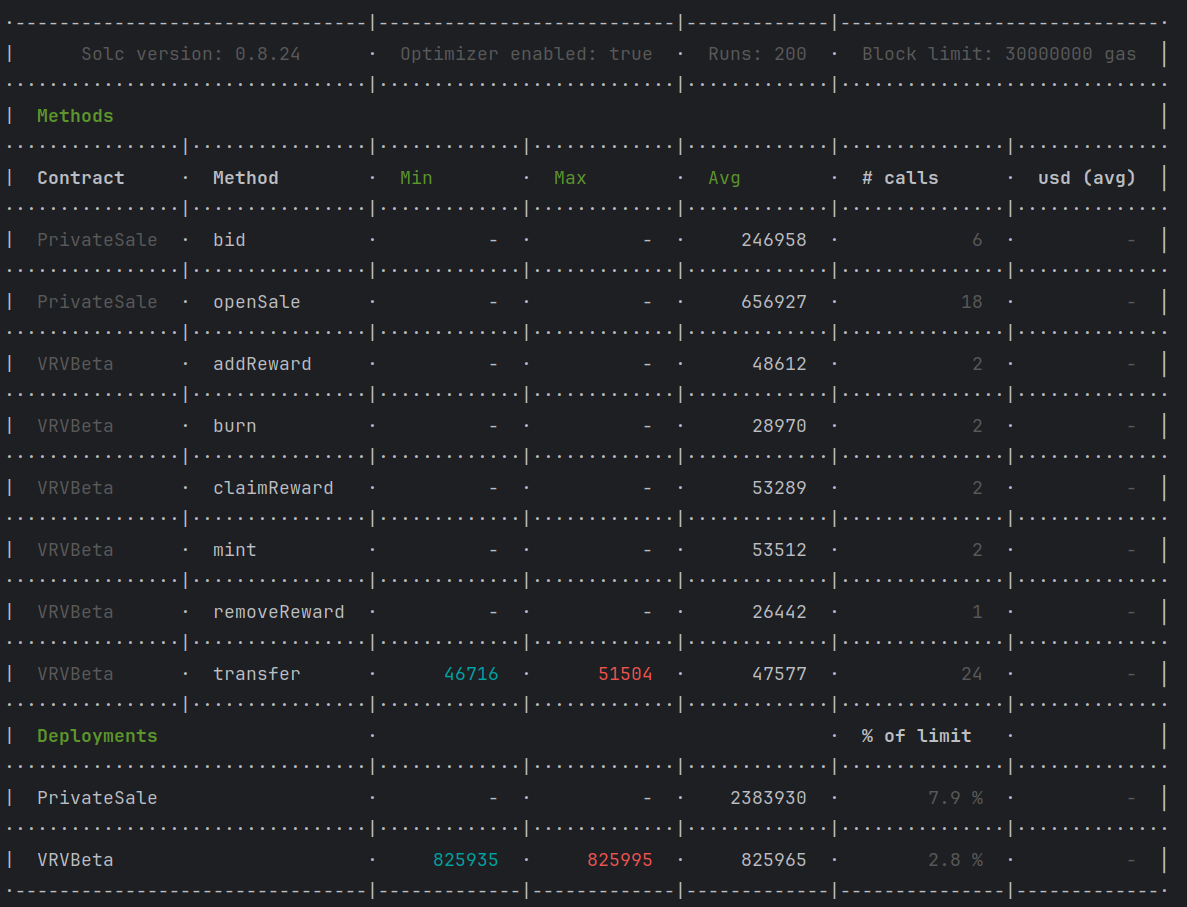
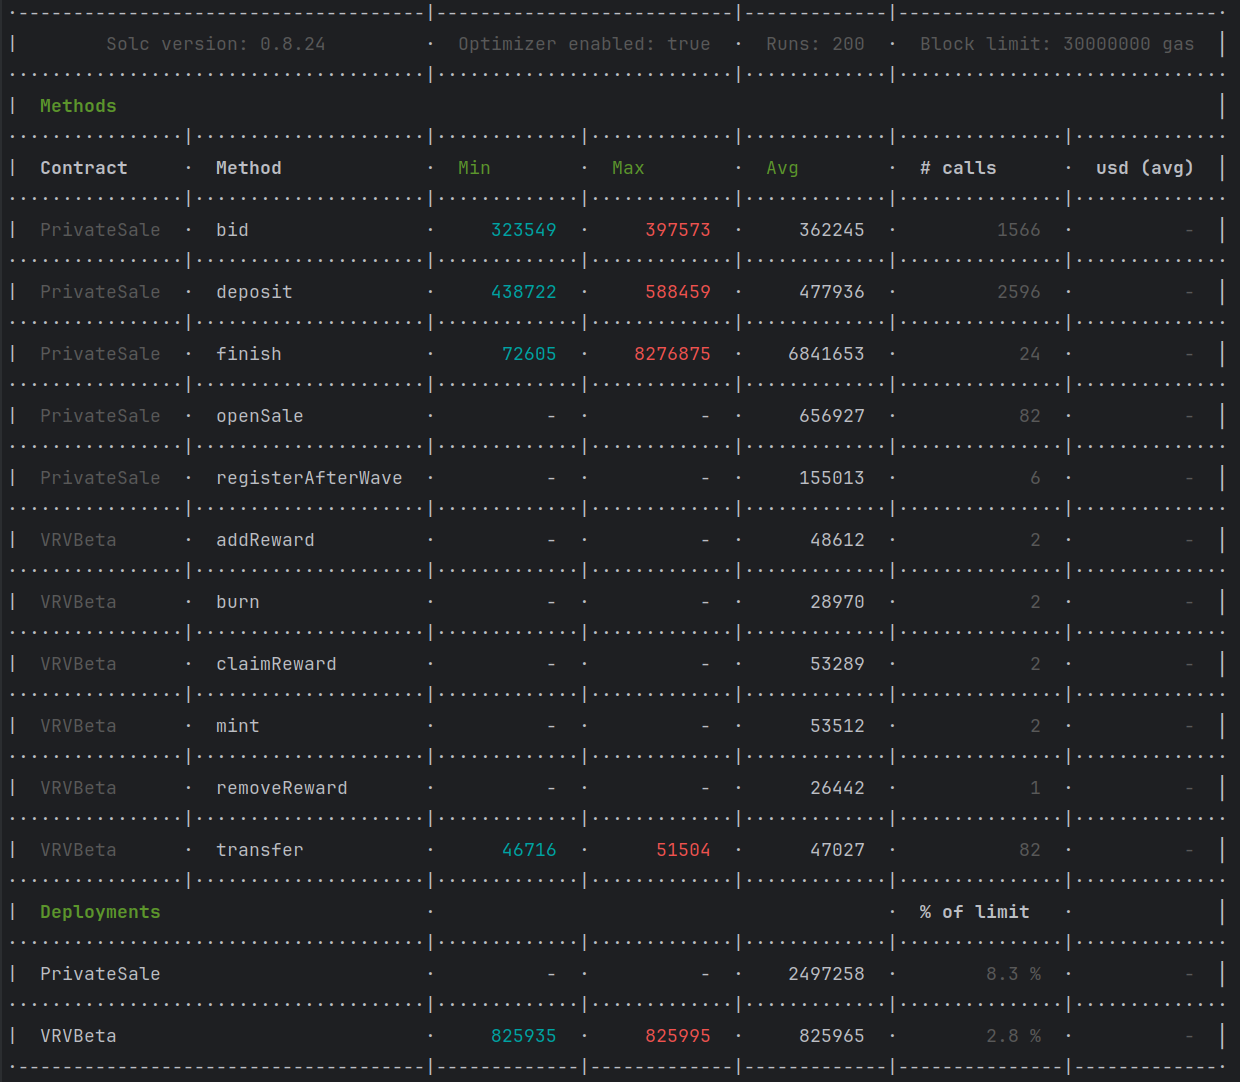
Private Sell готов

diff --git a/hardhat.config.ts b/hardhat.config.ts
@@ -43,7 +43,6 @@ const config: HardhatUserConfig = {
     timeout: 300000
   },
   gasReporter: {
-    enabled: false,
     currency: "USD"
   }
 };

diff --git a/.solcover.js b/.solcover.js
@@ -1,0 +1,2 @@
+module.exports = {
+};

diff --git a/README.md b/README.md
@@ -74,151 +74,4 @@ npx hardhat ignition deploy ./ignition/modules/OnlyVervCoin.ts --network localho
 - Добавляем метод, который завершает продажи, возвращает всем все либо переводит все бабки на баланс
   кошелька который указан в методе
 
-
-Как работать с контрактом
-
-Пред началом продажи необходимо на баланс контракта Private Sale перечислить VRV токены в необходимом
-количестве. `При деплое через команду это происходит автоматически`
-
-```
-vrvToken.transfer(privateSaleContractAddress, 7_500_000_000_000_000_000_000_000n);
-```
-
-Пред началом продажи необходимо сконфигурировать контракт тем самым разрешив депозиты. `При деплое через команду это происходит автоматически`
-
-```
-// privateSaleContract.openSale(softCap: bigint, hardCap: bigint, waveLimit: bigint);
-privateSaleContract.openSale(15_000_000_000_000_000_000n, 40_000_000_000_000_000_000n, 750_000_000_000_000_000_000_000n);
-```
-
-
-Чтобы совершить депозит, необходимо на бекенде подготовить данные которые затем можно добавить в транзакцию
-пользователя и вызвать отправку этой транзакции.
-
-```ts
-import { ethers } from "hardhat";
-
-type SolidityTypesAsString = "address"
-        | "bytes" | "bytes1" | "bytes2" | "bytes3" | "bytes4" | "bytes5" | "bytes6" | "bytes7" | "bytes8" | "bytes9"
-        | "bytes10" | "bytes11" | "bytes12" | "bytes13" | "bytes14" | "bytes15" | "bytes16" | "bytes17" | "bytes18" | "bytes19"
-        | "bytes20" | "bytes21" | "bytes22" | "bytes23" | "bytes24" | "bytes25" | "bytes26" | "bytes27" | "bytes28" | "bytes29"
-        | "bytes30" | "bytes31" | "bytes32"
-        | "string"
-        | "uint8"
-        | "uint"
-        | "uint256"
-
-type EIP712TypeDefinition = {
-  [key: string]: {
-    name: string
-    type: SolidityTypesAsString
-  }[]
-}
-
-type EIP712Domain = {
-  name: string
-  version: string
-  verifyingContract: string,
-  chainId: number,
-}
-
-type HardhatSignerType = Awaited<Promise<PromiseLike<ReturnType<typeof ethers.getSigner>>>>
-
-
-async function signTypedData(
-    domain: EIP712Domain,
-    types: EIP712TypeDefinition,
-    values: Object,
-    signer: HardhatSignerType
-) {
-  try {
-    return await signer.signTypedData(domain, types, values)
-  } catch (error) {
-    console.log("[signTypedData]::error ",error )
-    return ""
-  }
-}
-
-const types: EIP712TypeDefinition = {
-  DepositRequest: [
-    { name: "to", type: "address" },
-    { name: "tokenAmount", type: "uint256" },
-    { name: "amount", type: "uint256" },
-    { name: "cost", type: "uint256" },
-    { name: "wave", type: "uint8" }
-  ]
-};
-
-const domain: EIP712Domain =  {
-  name: "VERVPRIVATESALE",
-  version: "1",
-  chainId: await ethers.provider.getNetwork().then(({ chainId }) => chainId) as number, // ChainId лучше уточнить у Элькина в какой сети это будет расскатано 
-  verifyingContract: privateSaleContractAddress, // Адрес контракта приватной продажи
-}
-
-const deposit = {
-  to: addr1.address, // Адресс пользователя
-  tokenAmount: 1_000_000_000_000_000_000_000n, // Количество токенов VRV. (1000 токенов Ether)
-  amount: 7_178_957_041_000_000, // Количество Eth. (0,007178957041 токенов Ether)
-  cost: 7_178_957_041_000, // Курс за один VRV (Ether) (0,000007178957041)
-  wave: 1 // Индекс волны
-};
-
-// Генерация подписи 
-// owner - SignerWithAddress пользователь от имени которого расскатан контракт
-const signature = await signTypedData(domain, types, deposit, owner);
-
-// privateSaleFactory - Фабрика в текущем примере из hardhad но можно и через ether вывать через
-// new ethers.Contract(address, abi, owner);
-const data = privateSaleFactory.interface.encodeFunctionData("deposit", [{...deposit, signature}]);
-
-// Данные готовы. Можно передавать на фронт для отправки пользователем
-
-await addr1.sendTransaction({
-  from: addr1.address,
-  to: privateSaleContractAddress,
-  data: data,
-  value: deposit.amount
-})
-
-```
-
-Для получения обновленной информации
-
-```ts
-// privateSaleContract.getStats(wave: unit8);
-
-privateSaleContract.getStats(1);
-```
-В ответ получаем информацию о волне
-
-
-Можно подписаться на события
-
-```solidity
-
-struct Deposit {
-  uint256 tokenAmount;
-  uint256 amount;
-  uint256 cost;
-  uint8 wave;
-  uint256 createdAt;
-  uint256 withdrawal;
-}
-
-event Deposited(address indexed from, Deposit _value); // Отправляется когда завершен депозит
-event SaleOpened(); // Отправляется при открытии продаж
-event SaleClosed(); // Отправляется при закрытии продаж
-
-```
-
-
-Метод для получения баланса принятых депозитов в eth
-```solidity
-function getBalance() public view returns (uint256);
-```
-
-Метод для получения суммы депозитов
-```solidity
-function depositSum() public view returns (uint256);
-```
+TODO:
